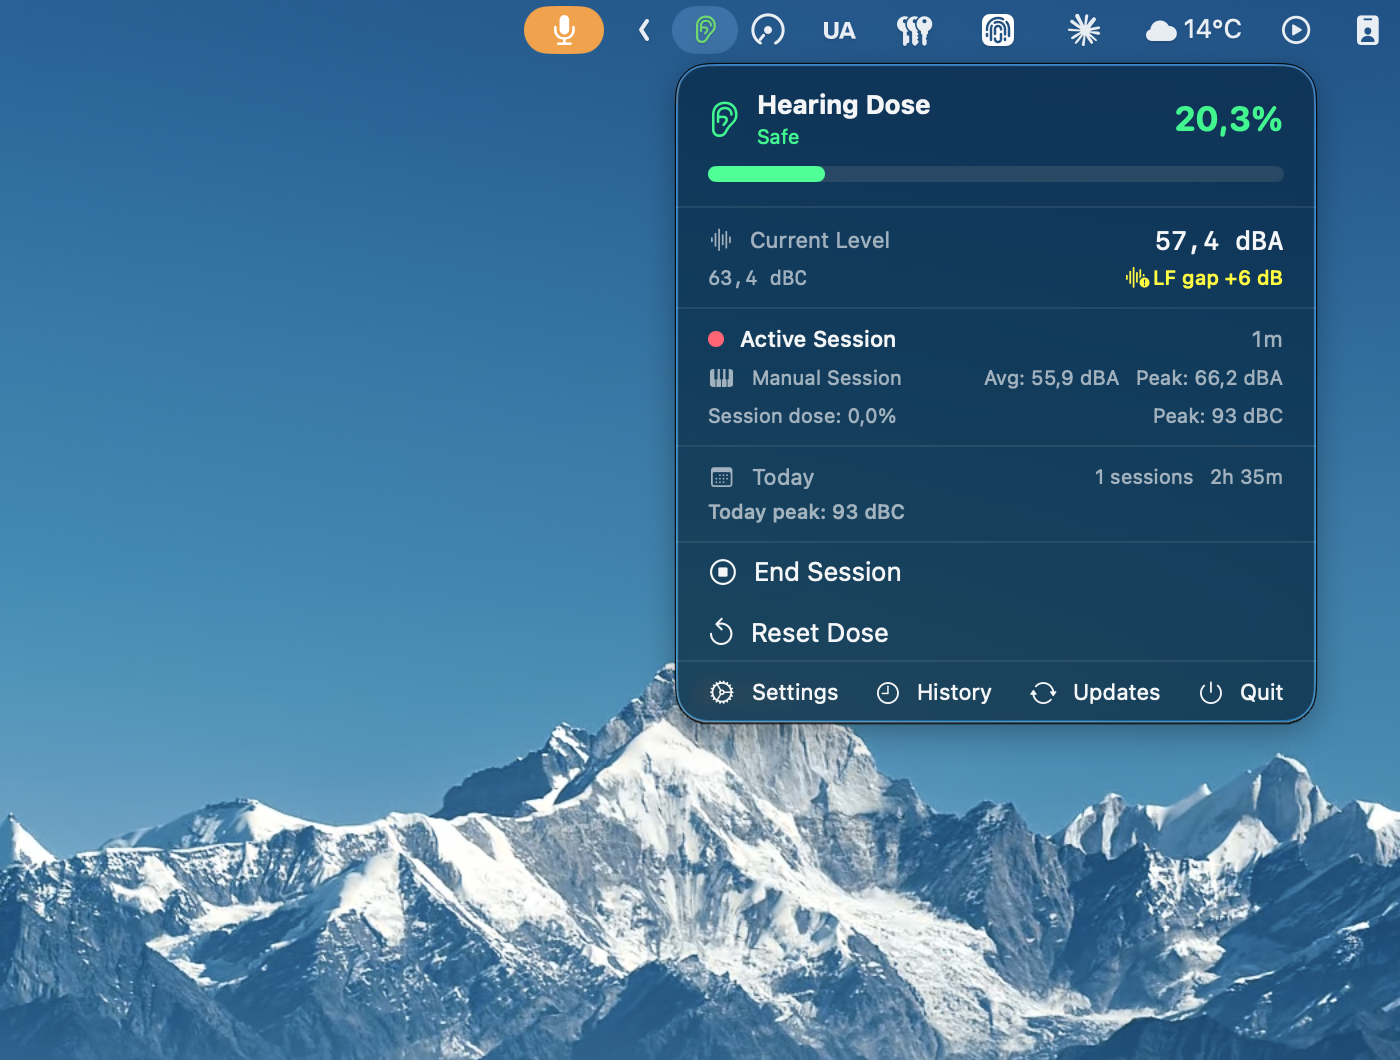
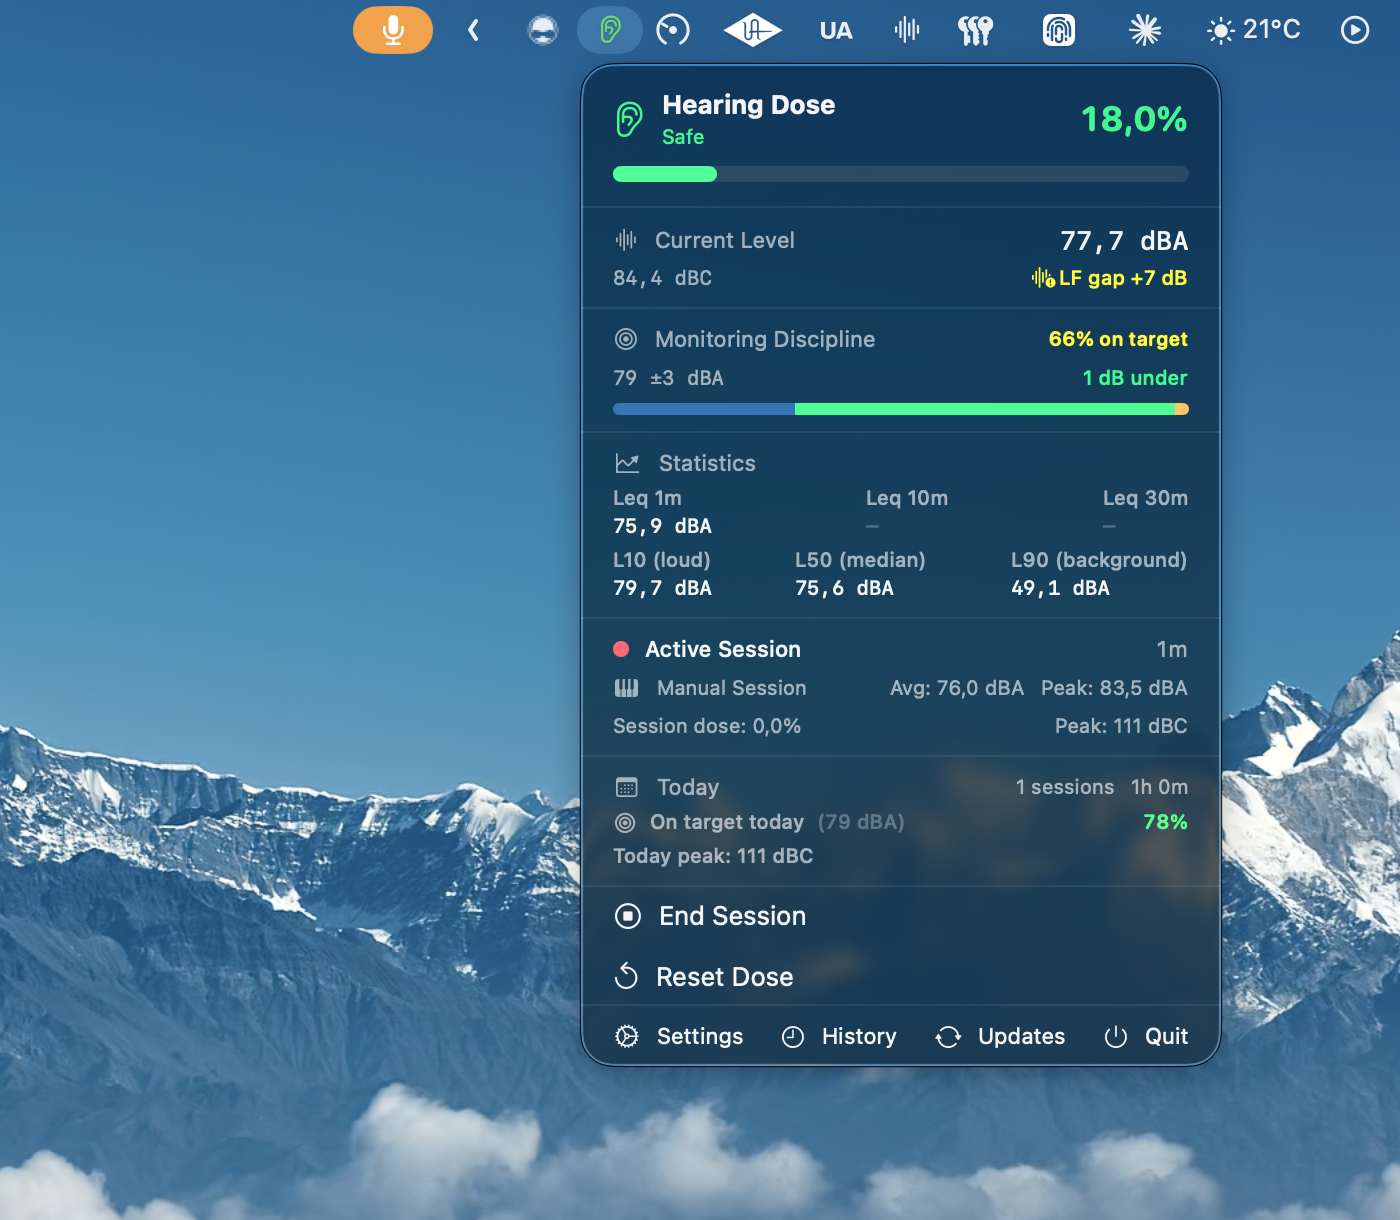
Auris page: rebalance for monitoring + hearing, refresh screenshots
Page now leads with both jobs (target-level monitoring and NIOSH
dose) instead of hearing-only. Adds Target-level calibration,
Lyra integration, Mic frequency correction feature rows. Updates
hero copy, "How it works" split into monitoring / hearing
sections, and a new 2-up screenshot row showing the calibration
wizard and Send-to-Lyra sheet.

"Danger" → "Over-exposed" everywhere to match the in-app label.

Refreshed menu_dose_{green,yellow,red}.png with the new
Monitoring Discipline gauge visible; all three normalised to
1400×1220 so red's taller popover fits without clipping. Added
calibration-wizard.png and send-to-lyra.png (padded to identical
1288×1424 with page-bg fill so they scale at the same content
ratio). Replaced history.png with a fresher capture.

diff --git a/auris/index.html b/auris/index.html
@@ -5,14 +5,14 @@
     <meta name="viewport" content="width=device-width, initial-scale=1.0">
     <title>Auris — Headroom</title>
     <link rel="canonical" href="https://headroomstudio.dev/auris/">
-    <meta name="description" content="Real-time hearing dose meter for audio professionals. Measures SPL and tracks your daily NIOSH exposure so you know when to turn it down.">
+    <meta name="description" content="An SPL meter for your menu bar — for monitoring discipline and hearing protection. Calibrate your monitor chain to a reference, hold it across sessions, and track NIOSH hearing dose at the same time.">
     <meta property="og:title" content="Auris">
-    <meta property="og:description" content="Real-time hearing dose meter for audio professionals. Know your exposure before the damage is done.">
+    <meta property="og:description" content="Calibrated monitoring discipline and NIOSH hearing dose tracking, in one menu bar app. Pin your monitor knob to a reference. Know how much hearing today has cost.">
     <meta property="og:image" content="https://headroomstudio.dev/auris/og.png">
     <meta property="og:type" content="website">
     <meta name="twitter:card" content="summary_large_image">
     <meta name="twitter:title" content="Auris">
-    <meta name="twitter:description" content="Real-time hearing dose meter for audio professionals. Know your exposure before the damage is done.">
+    <meta name="twitter:description" content="Calibrated monitoring discipline and NIOSH hearing dose tracking, in one menu bar app.">
     <meta name="twitter:image" content="https://headroomstudio.dev/auris/og.png">
     <link rel="icon" href="/favicon.ico" sizes="48x48">
     <link rel="icon" href="/headroom-mark.svg" type="image/svg+xml">
@@ -594,14 +594,15 @@
         <div class="hero-text">
             <p class="hero-eyebrow">Headroom</p>
             <h1>Auris</h1>
-            <p class="hero-desc">Real-time hearing dose meter for audio professionals. Won't make your studio look cooler — but it might keep you working in it longer. Hearing loss is cumulative. So is Auris.</p>
+            <p class="hero-desc">An SPL meter for your menu bar — built to do two jobs at once. Pin your monitor chain to a calibrated reference and stay there. Track how much hearing the day has cost using NIOSH-aligned dose accumulation. Both run passively while you work.</p>
             <div class="badges">
                 <span class="badge badge-macos">macOS</span>
+                <span class="badge">Target level</span>
                 <span class="badge">Hearing health</span>
                 <span class="badge">NIOSH</span>
             </div>
             <div class="hero-actions">
-                <a href="https://releases.headroomstudio.dev/Auris-1.1.dmg" class="btn btn-primary">
+                <a href="https://releases.headroomstudio.dev/Auris-1.2.dmg" class="btn btn-primary">
                     ↓ Download Free Trial
                 </a>
                 <a href="https://headroomstudio.lemonsqueezy.com/checkout/buy/209e0fb0-f09e-4a46-9b44-19161d81a4df?embed=1"
@@ -619,9 +620,13 @@
     <div class="screenshots">
         <img src="history.png" alt="Auris session history window showing past recording sessions with dose and peak levels" class="screenshot-full">
         <div class="screenshot-row-3">
-            <img src="menu_dose_green.png" alt="Auris menu bar popover — Safe dose level (green)">
-            <img src="menu_dose_yellow.png" alt="Auris menu bar popover — Caution dose level (yellow)">
-            <img src="menu_dose_red.png" alt="Auris menu bar popover — Danger dose level (red)">
+            <img src="menu_dose_green.png" alt="Auris menu bar popover — Safe dose level (green) with monitoring discipline gauge">
+            <img src="menu_dose_yellow.png" alt="Auris menu bar popover — Caution dose level (yellow) with monitoring discipline gauge">
+            <img src="menu_dose_red.png" alt="Auris menu bar popover — Over-exposed dose level (red) with monitoring discipline gauge">
+        </div>
+        <div class="screenshot-row">
+            <img src="calibration-wizard.png" alt="Auris target-level calibration wizard in the captured state — pin the monitor controller to a known dBA reference">
+            <img src="send-to-lyra.png" alt="Auris's Send to Lyra sheet — write a calibration straight into one of Lyra's three reference slots">
         </div>
     </div>
 </div>
@@ -630,11 +635,14 @@
     <hr class="divider">
 
     <section class="section">
-        <p class="section-label">The problem</p>
-        <h2 class="section-headline">The most common occupational hazard in audio has no pain signal.</h2>
-        <p class="prose">Studies consistently place noise-induced hearing loss among the top health risks for audio professionals — and not just live engineers or touring musicians. Long studio sessions at moderate levels accumulate exactly the same way loud ones do, just more quietly. The ear doesn't distinguish between one very loud hour and eight moderately loud ones. The damage arithmetic is the same.</p>
-        <p class="prose" style="margin-top: 12px;">That's what makes it so easy to ignore. There's no warning before the threshold shifts. By the time something feels off — the top end sounds different, mixing decisions feel harder, a tone that wasn't there before keeps you awake at night — the damage is already permanent. <strong>Most professionals know this abstractly. Almost none have ever actually measured their daily exposure.</strong></p>
-        <p class="prose" style="margin-top: 12px;">Auris doesn't add friction to your workflow. It sits in the menu bar, measures while you work, and gives you one number that matters: how much of today's limit you've used. Over weeks and months, patterns emerge — and that's when it actually changes how you work.</p>
+        <p class="section-label">Two measurements that matter</p>
+        <h2 class="section-headline">Where the monitor knob is actually set, and how much hearing the day has cost. Two questions almost no studio answers in numbers.</h2>
+
+        <p class="prose" style="margin-top: 24px;"><strong>The monitoring problem.</strong> The monitor knob drifts. A decibel up when the playback feels quiet, half a decibel back when a client walks in, a touch up again because the chorus needs energy. None of those moves register as wrong; together they mean the engineer in the afternoon is making decisions at a different level than the one in the morning. The same EQ move feels gentle in one session and aggressive in the next. Mixes that translated cleanly in the room don't translate to the car. None of this is mysterious — it all comes from making relative decisions against a moving reference.</p>
+
+        <p class="prose" style="margin-top: 14px;"><strong>The hearing problem.</strong> Studies place noise-induced hearing loss among the top occupational hazards for audio professionals, and not just for live engineers. Long studio sessions at moderate levels accumulate exactly the same way loud ones do, just more quietly. The ear doesn't distinguish between one very loud hour and eight moderately loud ones — the damage arithmetic is the same. There's no pain signal before the threshold shifts. By the time something feels off, the damage is permanent. <strong>Most professionals know this abstractly. Almost none have ever actually measured their daily exposure.</strong></p>
+
+        <p class="prose" style="margin-top: 14px;"><strong>One measurement chain, two jobs.</strong> Auris answers both questions from the menu bar. The same A-weighted SPL reading that updates the dose counter feeds the calibration tools, the Leq statistics, the target-level wizard, and the <a href="../lyra/" style="color:var(--accent);text-decoration:none;border-bottom:1px solid rgba(124,132,246,0.3);">Lyra</a> integration. No workflow friction. Two numbers that are usually invisible — your current monitoring SPL and today's accumulated dose — kept honest in the corner of your screen.</p>
     </section>
 
     <hr class="divider">
@@ -643,16 +651,28 @@
         <p class="section-label">Features</p>
         <div class="features">
             <div class="feature-row">
-                <span class="feature-key">Hearing dose</span>
-                <span class="feature-val">Accumulates your daily exposure using the NIOSH formula. Four colour-coded states — Safe, Caution, Warning, Danger — update in the menu bar icon in real time. Resets at midnight. Persists across restarts.</span>
+                <span class="feature-key">Real-time SPL</span>
+                <span class="feature-val">Continuous A-weighted level at 10 Hz, exponentially smoothed for a stable, readable display. The same measurement chain feeds the dose counter, the calibration tools, the Leq statistics, and the Lyra integration — one number, multiple jobs.</span>
             </div>
             <div class="feature-row">
-                <span class="feature-key">Real-time SPL</span>
-                <span class="feature-val">Continuous A-weighted level at 10 Hz, exponentially smoothed for a stable, readable display. Calibratable to your measurement mic for real-world accuracy.</span>
+                <span class="feature-key">Target-level calibration</span>
+                <span class="feature-val">A pink-noise wizard pins your monitor controller to a specific dBA target (79 dBA approximates Katz's K-System reference; 81 lands close to cinema reference). Captured calibrations record the knob-position note, target value, and measured SPL, with a stale-calibration hint after 90 days. One record per output device, so monitors and headphones are calibrated independently.</span>
+            </div>
+            <div class="feature-row">
+                <span class="feature-key">Hearing dose</span>
+                <span class="feature-val">Accumulates your daily exposure using the NIOSH formula. Four colour-coded states — Safe, Caution, Warning, Over-exposed — update in the menu bar icon in real time. Resets at midnight. Persists across restarts.</span>
             </div>
             <div class="feature-row">
                 <span class="feature-key">Leq &amp; Ln stats</span>
-                <span class="feature-val">Rolling energy-average level (Leq) over 1-, 10-, and 30-minute windows shows how loud you have actually been — not just right now. L10, L50, and L90 percentiles reveal the character of a session: L10 captures your loud peaks, L50 your typical working level, L90 the background noise floor. All computed live in the menu bar.</span>
+                <span class="feature-val">Rolling energy-average level (Leq) over 1-, 10-, and 30-minute windows shows how loud you have actually been — not just right now. L10, L50, and L90 percentiles reveal the character of a session: L10 captures your loud peaks, L50 your typical working level, L90 the background noise floor. Useful for both dose context and verifying you're holding a calibrated reference band.</span>
+            </div>
+            <div class="feature-row">
+                <span class="feature-key">Lyra integration</span>
+                <span class="feature-val">After a target-level calibration, hand the position straight to <a href="../lyra/" style="color:var(--accent);text-decoration:none;border-bottom:1px solid rgba(124,132,246,0.3);">Lyra</a> with a single click. Pick a slot (1, 2, or 3), confirm the name, and your calibrated listening level is one keystroke away from any app — Ctrl+F10 / F11 / F12 in Lyra. The slot remembers the dB SPL value and shows it as e.g. <em>"Mix — 79 dB SPL"</em> in Lyra's menu and HUD.</span>
+            </div>
+            <div class="feature-row">
+                <span class="feature-key">Mic frequency correction</span>
+                <span class="feature-val">Compensates for your measurement microphone's frequency response so the SPL reading reflects the room, not the capsule. A pink-noise sweep measures your mic's deviation from flat and applies the inverse correction before A-weighting. Per-mic profiles can be saved and recalled from Settings.</span>
             </div>
             <div class="feature-row">
                 <span class="feature-key">Peak monitoring</span>
@@ -717,7 +737,12 @@
 
     <section class="section">
         <p class="section-label">How it works</p>
-        <p class="prose">Auris reads audio from a microphone positioned at your listening position and converts it to A-weighted SPL using a proper <strong>IEC 61672-1 filter</strong> — the same standard used in professional sound level meters. It samples 10 times per second and accumulates your hearing dose according to the <strong>NIOSH Recommended Exposure Limit</strong> formula. The key relationship: at 85 dBA you have 8 hours; every 3 dB increase halves that time.</p>
+
+        <p class="prose">Auris reads audio from a microphone positioned at your listening position and converts it to A-weighted SPL using a proper <strong>IEC 61672-1 filter</strong> — the same standard used in professional sound level meters. It samples 10 times per second. That single measurement chain feeds two sets of tools.</p>
+
+        <p class="prose" style="margin-top: 16px;"><strong>Monitoring side.</strong> The live SPL feeds a target-level calibration wizard that pins your monitor controller to a chosen dBA target. Pink noise plays through your selected output, the wizard waits for the reading to settle inside a configurable tolerance band, you click <em>Capture</em>, and the position is recorded with a knob-position note. After saving, a one-click handoff to <a href="../lyra/">Lyra</a> writes the calibration into one of three reference slots, recallable by Ctrl+F-key. Rolling Leq statistics (over 1, 10, and 30 minutes) plus L10/L50/L90 percentiles tell you whether the room is actually sitting at the target or drifting around it.</p>
+
+        <p class="prose" style="margin-top: 16px;"><strong>Hearing-protection side.</strong> The same SPL stream accumulates hearing dose according to the <strong>NIOSH Recommended Exposure Limit</strong> formula. The key relationship: at 85 dBA you have 8 hours; every 3 dB increase halves that time.</p>
 
         <table class="dose-table">
             <thead>

diff --git a/auris/faq.html b/auris/faq.html
@@ -374,7 +374,7 @@
                         <tr><td>0–40%</td><td>Safe</td><td>Well within limits — keep working</td></tr>
                         <tr><td>40–70%</td><td>Caution</td><td>Consider turning down a few dB</td></tr>
                         <tr><td>70–90%</td><td>Warning</td><td>Take a break or reduce level significantly</td></tr>
-                        <tr><td>90%+</td><td>Danger</td><td>Daily limit approaching — continued exposure risks permanent damage</td></tr>
+                        <tr><td>90%+</td><td>Over-exposed</td><td>Daily limit approaching — continued exposure risks permanent damage</td></tr>
                     </tbody>
                 </table>
                 <p class="faq-a" style="margin-top: 12px;">Think of 100% not as a cliff edge after which damage is guaranteed, but as the point where a person exposed at that level <em>every working day for a career</em> begins accumulating statistically significant risk. The dose resets at midnight.</p>
@@ -574,7 +574,7 @@
 
             <div class="faq-item">
                 <p class="faq-q">How do I read the weekly chart?</p>
-                <p class="faq-a">The seven bars represent the last seven calendar days, oldest on the left, today on the right. Each bar height is normalised to the highest day — the tallest bar fills the available space, and shorter bars scale proportionally. The number above each bar is that day's total dose as a percentage of the daily limit. Bar colours follow the same Safe / Caution / Warning / Danger thresholds used by the menu bar icon.</p>
+                <p class="faq-a">The seven bars represent the last seven calendar days, oldest on the left, today on the right. Each bar height is normalised to the highest day — the tallest bar fills the available space, and shorter bars scale proportionally. The number above each bar is that day's total dose as a percentage of the daily limit. Bar colours follow the same Safe / Caution / Warning / Over-exposed thresholds used by the menu bar icon.</p>
                 <p class="faq-a">The <strong>Daily avg</strong> header is the arithmetic mean of all seven days' dose percentages — on a typical day this week, how much of your daily budget did you use?</p>
                 <p class="faq-a">The <strong>EU weekly</strong> header is the EU L_EX,w — the weekly noise exposure level from ISO 9612 and EU Directive 2003/10/EC, expressed in dBA and directly comparable to the 85 dBA daily criterion. Below 80 dBA is green; 80–85 dBA is orange; ≥ 85 dBA is red, meaning weekly exposure is unsustainable at that pace.</p>
             </div>
@@ -660,6 +660,21 @@
             <div class="faq-item">
                 <p class="faq-q">Is Auris a replacement for a professional sound level meter?</p>
                 <p class="faq-a">No. Auris gives useful, science-based awareness of your exposure levels during everyday work — and that awareness alone can meaningfully reduce long-term risk. A <strong>calibrated, certified sound level meter</strong> (IEC 61672 Class 1 or 2) is required for formal occupational health compliance assessments. Treat Auris as a practical daily monitoring tool, not a regulatory instrument.</p>
+            </div>
+
+        </div>
+    </section>
+
+    <!-- ── Companion apps ─────────────────────────────────────────────── -->
+
+    <section class="faq-group">
+        <p class="group-label">Companion apps</p>
+        <div class="faq-list">
+
+            <div class="faq-item">
+                <p class="faq-q">Does Auris work with Lyra?</p>
+                <p class="faq-a">Yes. <a href="../lyra/">Lyra</a> is our keyboard-driven volume control for Universal Audio Apollo interfaces. After running Auris's <strong>target-level calibration</strong> in Settings → Audio, click <strong>"Send to Lyra…"</strong> — Auris hands the position to Lyra by writing the live Apollo monitor level into one of three reference slots, tagged with the name and dB SPL value you picked. Recall the position later with <strong>Ctrl+F10 / F11 / F12</strong> in Lyra. The slot displays as e.g. <em>"Mix — 85 dB SPL"</em> in Lyra's menu and HUD instead of a generic percentage.</p>
+                <p class="faq-a">The integration uses Lyra's <code style="font-family: ui-monospace, SFMono-Regular, Menlo, monospace; background: rgba(255,255,255,0.05); padding: 1px 5px; border-radius: 4px;">lyra://reference/{n}/save</code> URL scheme, so even if Lyra is closed, macOS launches it on demand. Requires <strong>Lyra 1.4 or later</strong>. If Lyra isn't installed, Auris shows a small link to the product page in place of the button — no nags or interruptions.</p>
             </div>
 
         </div>
